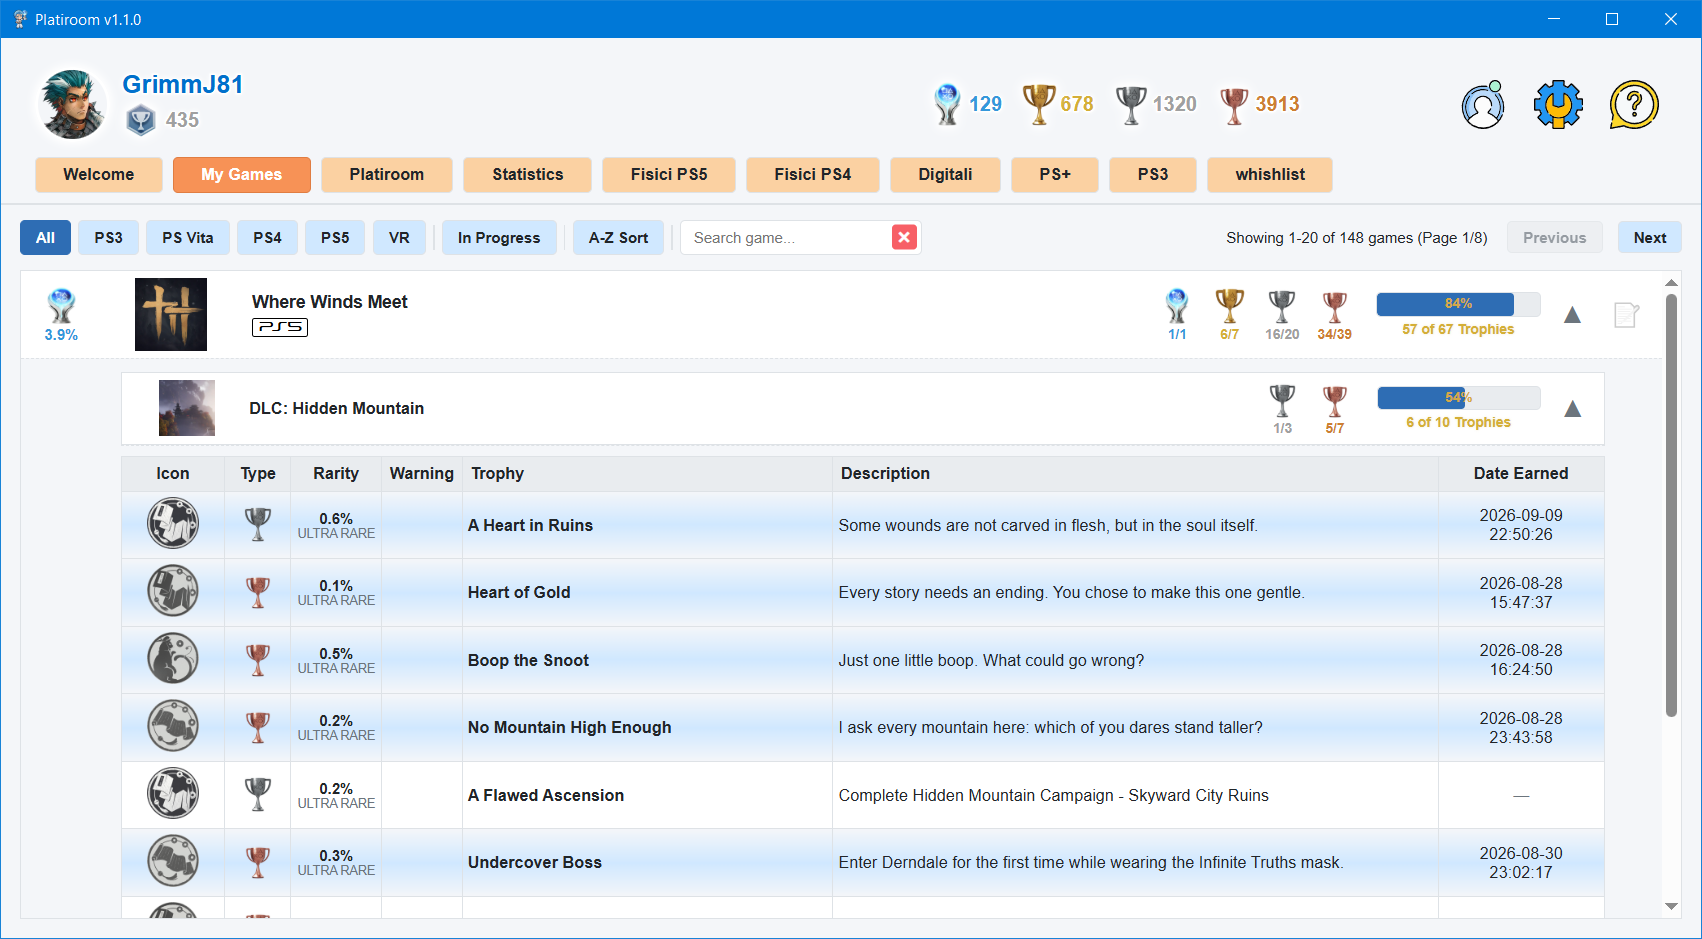
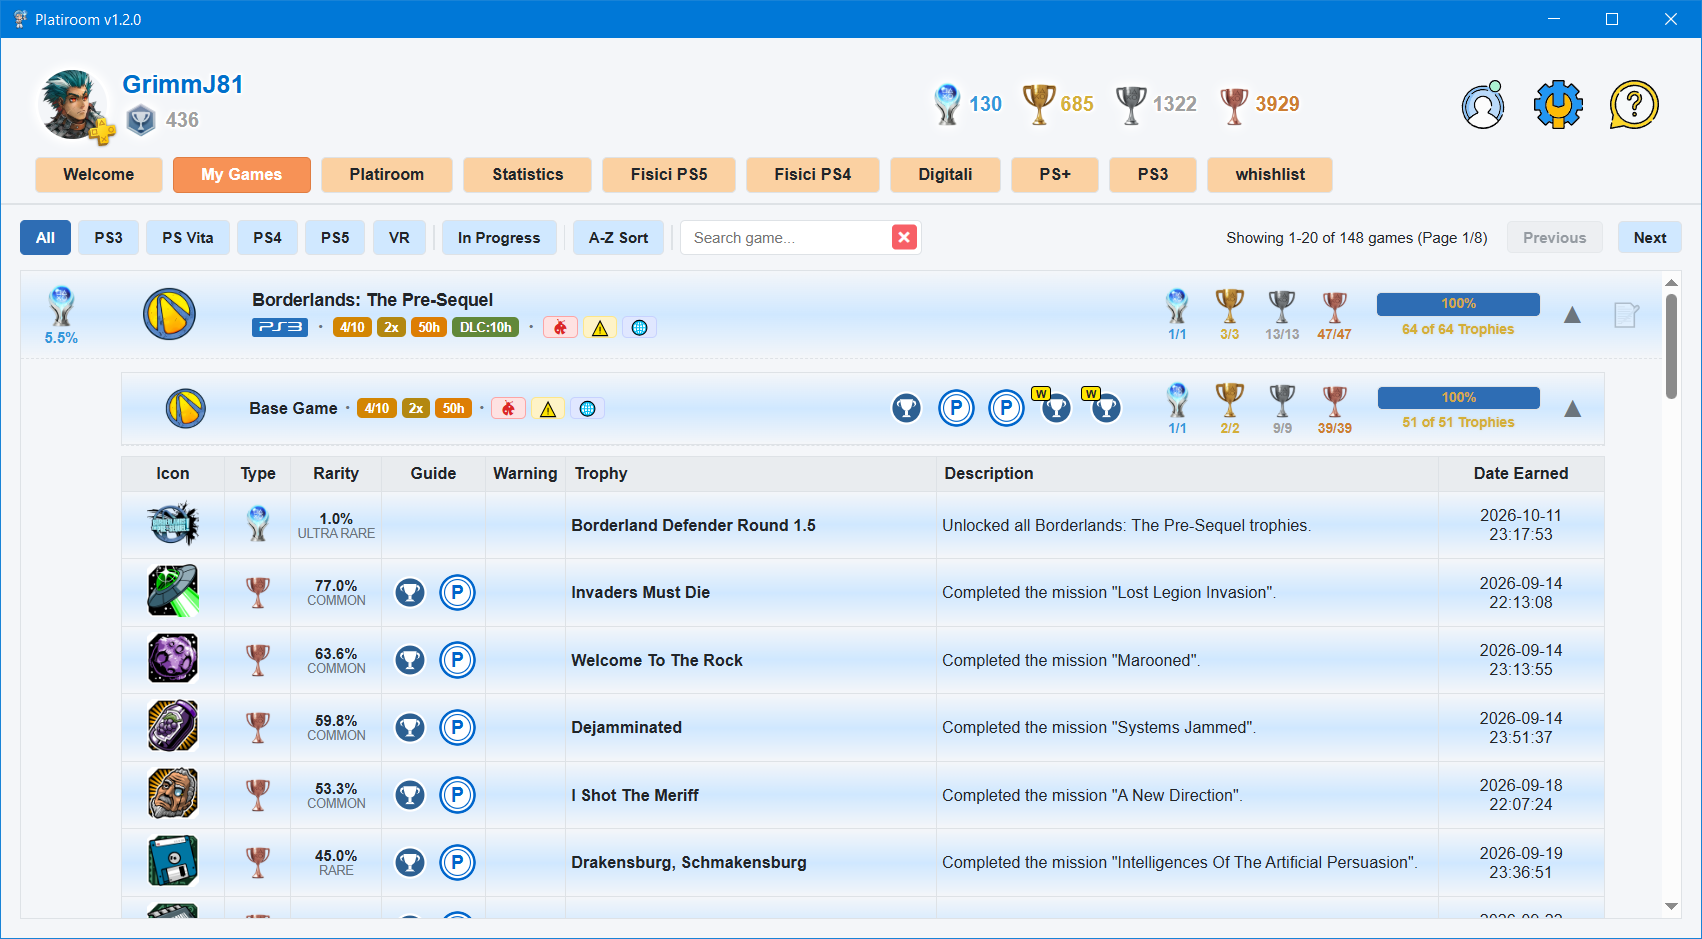
v1.2.0
- added direct link to the bookmark trophy
- added PS+ image
- minor fix

diff --git a/renderer-list.js b/renderer-list.js
@@ -43,6 +43,7 @@ const MYGAMES_COLUMNS_CONFIG = {
   trophyCounts: true,  // Trophy counts per type
   progress: true,      // Progress column (games and DLC)
   trophyData: true,    // Rarity/rate and date earned columns (trophy table)
+  guide: true,        // Guide column of the trophy table
   expand: true,        // Expand arrow
   notes: true          // Note icon (right click to edit)
 };
@@ -56,6 +57,7 @@ const CUSTOM_TABS_COLUMNS_CONFIG = {
   trophyCounts: true,
   progress: false,
   trophyData: false,
+  guide: true,
   expand: true,
   notes: true
 };
@@ -785,6 +787,38 @@ function getGuideBadgeImage(url) {
   return badge ? badge[1] : null;
 }
 
+// Builders of the per-trophy link, one per supported site (icon order: PSNProfiles, PlayStationTrophies)
+const TROPHY_LINK_SOURCES = [
+  {
+    domain: 'psnprofiles.com',
+    needsGameId: true,
+    build: (guideUrl, gameId, trophy) => `https://psnprofiles.com/trophy/${gameId}/${Number(trophy.tId) + 1}`
+  },
+  {
+    domain: 'playstationtrophies.org',
+    needsGameId: false,
+    build: (guideUrl, gameId, trophy) => `${guideUrl.split('#')[0]}#item-${trophy.tId}`
+  }
+];
+
+// Functions trophy -> url for a group (empty array = no guide, so no buttons).
+// Only the first link of each site is used. The game "id" is read from the group data, then from the game entry
+// (DLC share the PSNProfiles page of the base game).
+function getTrophyGuideSources(guideEntry, groupGuideData) {
+  if (!groupGuideData) return [];
+
+  const links = extractGuideLinks(groupGuideData);
+  const gameId = groupGuideData.id ?? guideEntry?.id;
+  const sources = [];
+
+  for (const { domain, needsGameId, build } of TROPHY_LINK_SOURCES) {
+    const link = links.find(l => l.url.toLowerCase().includes(domain));
+    if (!link || (needsGameId && gameId == null)) continue;
+    sources.push((trophy) => build(link.url, gameId, trophy));
+  }
+  return sources;
+}
+
 // ==========================================================================
 // UI COMPONENTS
 // ==========================================================================
@@ -932,7 +966,21 @@ function createRarityCell(trophy) {
   return cell;
 }
 
-function createTrophyRow(trophy, game, config, unobInfo, isEarned) {
+function createEmptyGuideCell() {
+  return createEl('td', 'center-cell guide-cell');
+}
+
+// Platinum stays empty
+function createTrophyGuideCell(trophy, guideSources) {
+  const cell = createEmptyGuideCell();
+  if (String(trophy.tType).trim().toLowerCase() === 'platinum') return cell;
+
+  const links = guideSources.map(makeUrl => ({ type: 'G', url: makeUrl(trophy) }));
+  cell.appendChild(createGuideButtonsComponent(links));
+  return cell;
+}
+
+function createTrophyRow(trophy, game, config, unobInfo, isEarned, buildGuideCell) {
   const row = createEl('tr', isEarned ? 'trophy-row-earned' : '');
   const prefix = getIconPrefix(game.isPS5);
 
@@ -956,6 +1004,9 @@ function createTrophyRow(trophy, game, config, unobInfo, isEarned) {
   // Rarity
   if (config.trophyData) row.appendChild(createRarityCell(trophy));
 
+  // Guide
+  if (config.guide) row.appendChild(buildGuideCell(trophy));
+  
   // Warning (unobtainable)
   const warningCell = createEl('td', 'center-cell');
   warningCell.style.fontSize = '12px';
@@ -980,7 +1031,7 @@ function createTrophyRow(trophy, game, config, unobInfo, isEarned) {
   return row;
 }
 
-function createTrophiesTableComponent(trophies, game, config) {
+function createTrophiesTableComponent(trophies, game, config, guideSources = []) {
   const table = createEl('table', 'trophies-table');
 
   table.innerHTML = `
@@ -989,6 +1040,7 @@ function createTrophiesTableComponent(trophies, game, config) {
         <th style="width: 70px; text-align: center;">Icon</th>
         <th style="width: 40px; text-align: center;">Type</th>
         ${config.trophyData ? '<th style="width: 60px; text-align: center;">Rarity</th>' : ''}
+        ${config.guide ? '<th style="width: 70px; text-align: center;">Guide</th>' : ''}
         <th style="width: 40px; text-align: center;">Warning</th>
         <th style="width: 25%;">Trophy</th>
         <th>Description</th>
@@ -997,13 +1049,18 @@ function createTrophiesTableComponent(trophies, game, config) {
     </thead>
   `;
 
+  // The guide check is done once for the whole group, not once per trophy
+  const buildGuideCell = guideSources.length > 0
+    ? (trophy) => createTrophyGuideCell(trophy, guideSources)
+    : createEmptyGuideCell;
+
   const unobInfo = unobtainableMap[game.npCommunicationId];
   const tbody = document.createElement('tbody');
 
   trophies.forEach(trophy => {
     const isEarned = isTrophyEarned(trophy);
     if (filterInProgressActive && isEarned) return;
-    tbody.appendChild(createTrophyRow(trophy, game, config, unobInfo, isEarned));
+    tbody.appendChild(createTrophyRow(trophy, game, config, unobInfo, isEarned, buildGuideCell));
   });
 
   table.appendChild(tbody);
@@ -1075,14 +1132,14 @@ function createGroupRow(group, game, stats, groupGuideData, config) {
   return row;
 }
 
-function createGroupContainer(group, game, stats, groupGuideData, groupsWrapper, config) {
+function createGroupContainer(group, game, stats, groupGuideData, groupsWrapper, config, guideSources) {
   const container = createEl('div', 'group-container');
   const row = createGroupRow(group, game, stats, groupGuideData, config);
   container.appendChild(row);
 
   const trophiesBox = createEl('div', 'group-trophies-container');
   if (stats.trophies.length > 0) {
-    trophiesBox.appendChild(createTrophiesTableComponent(stats.trophies, game, config));
+    trophiesBox.appendChild(createTrophiesTableComponent(stats.trophies, game, config, guideSources));
   } else {
     const emptyMsg = createEl('div', 'no-trophies-msg', 'No trophies found for this DLC.');
     emptyMsg.style.cssText = 'padding: 12px; color: var(--text-muted); font-size: 12px; font-style: italic; text-align: center;';
@@ -1144,8 +1201,8 @@ function createPlatinumCell(game) {
 
   const img = createEl('img');
   img.src = `img/${getIconPrefix(game.isPS5)}_platinum.png`;
-  img.style.width = '30px';
-  img.style.height = '30px';
+  img.style.height = '35px';
+  img.style.width = 'auto';
   img.style.opacity = earned ? '1' : '0.4';
   cell.appendChild(img);
 
@@ -1243,7 +1300,8 @@ function createExpandableGameContainer(game, tabKey = null) {
       if (filterInProgressActive && stats.progress === 100) return;
 
       const groupGuideData = getGroupGuideData(guideEntry, group);
-      groupsWrapper.appendChild(createGroupContainer(group, game, stats, groupGuideData, groupsWrapper, config));
+      const guideSources = getTrophyGuideSources(guideEntry, groupGuideData);
+      groupsWrapper.appendChild(createGroupContainer(group, game, stats, groupGuideData, groupsWrapper, config, guideSources));
     });
 
     details.appendChild(groupsWrapper);

diff --git a/renderer-stat.js b/renderer-stat.js
@@ -363,7 +363,7 @@ const PS4_COLOR = '#104E9B';
 const PSVITA_COLOR = '#4A89DC';
 const PS5_COLOR = '#ECECE6';            // slightly dirty white
 const PS5_BORDER_COLOR = '#B5B5AD';     // a white border would disappear on the white card
-const MULTIPLATFORM_COLOR = '#8E9195';  // PSN anniversary gray
+const VR_COLOR = '#8E9195';  			// PSN anniversary gray
 
 // Tile of 45 degree stripes alternating two colors, used as a canvas fill.
 // The two colors never overlap, so semi-transparent colors keep their transparency.
@@ -403,8 +403,8 @@ function getPlatformStyle(key, alpha = 1) {
     case 'ps4': return { fill: fillOf(PS4_COLOR), border: PS4_COLOR };
     case 'psvita': return { fill: fillOf(PSVITA_COLOR), border: PSVITA_COLOR };
     case 'ps5': return { fill: fillOf(PS5_COLOR), border: PS5_BORDER_COLOR };
-    case 'vr': return { fill: createStripePattern(fillOf(PS5_COLOR), fillOf(PS4_COLOR)), border: PS4_COLOR };
-    case 'multiplatform': return { fill: fillOf(MULTIPLATFORM_COLOR), border: MULTIPLATFORM_COLOR };
+	case 'vr': return { fill: fillOf(VR_COLOR), border: VR_COLOR };
+	case 'multiplatform': return {fill: createStripePattern(fillOf(PS5_COLOR), fillOf(PSVITA_COLOR)), border: PSVITA_COLOR};
     default: {
       const brand = cssColor('--brand');
       return { fill: fillOf(brand), border: brand };

diff --git a/index.html b/index.html
@@ -2,7 +2,7 @@
 <html lang="en">
 <head>
   <meta charset="UTF-8">
-  <title>Platiroom v1.1.0</title>
+  <title>Platiroom v1.2.0</title>
   <link rel="stylesheet" href="style.css">
 </head>
 <body>
@@ -10,10 +10,13 @@
   <!-- MAIN NAVBAR -->
   <header class="navbar">
     <div class="profile-widget">
-      <img id="avatar" alt="🎮" style="display:none;" onerror="this.style.display='none'; document.getElementById('avatar-placeholder').style.display='inline-block';">
-      <span id="avatar-placeholder" class="emoji-avatar" style="display:none;">🎮</span>
+      <div class="avatar-wrap">
+		<img id="avatar" alt="🎮" style="display:none;" onerror="this.style.display='none'; document.getElementById('avatar-placeholder').style.display='inline-block';">
+		<span id="avatar-placeholder" class="emoji-avatar" style="display:none;">🎮</span>
+		<img id="plus-badge" class="plus-badge" src="img/plus.svg" alt="PlayStation Plus" title="PlayStation Plus">
+	  </div>
     <div class="account-info">
-      <h1 id="account-name">Trophies</h1>
+      <h1 id="account-name">Account</h1>
       <div id="account-level-widget" class="account-level-widget" style="display: none;">
         <img id="tier-icon" class="tier-icon" src="" alt="Tier">
         <span id="account-level" class="account-level"></span>

diff --git a/style.css b/style.css
@@ -224,6 +224,24 @@ button.disabled {
   font-size: 32px;
 }
 
+.avatar-wrap {
+  position: relative;
+  display: flex;
+  align-items: center;
+  justify-content: center;
+}
+
+.plus-badge {
+  display: none;
+  position: absolute;
+  right: -6px;
+  bottom: -4px;
+  width: 24px;
+  height: 24px;
+  filter: drop-shadow(0 0 1px rgba(0, 0, 0, 0.6));
+  pointer-events: none;
+}
+
 .account-info {
   display: flex;
   flex-direction: column;
@@ -1100,6 +1118,13 @@ button.disabled {
   background-color: var(--bg-window);
 }
 
+.guide-cell .group-guide-links {
+  display: flex;
+  flex-wrap: nowrap;
+  justify-content: center;
+  gap: 4px;
+  margin: 0;
+}
 
 /* ==========================================================================
    9. TROPHY TABLE

diff --git a/web/scraper-user.js b/web/scraper-user.js
@@ -525,7 +525,8 @@ export async function runUserScraper({ psn, storage, log = console, delayMs = 30
         accountId: profileData.accountId,
         icon: profileData.avatarUrls?.[0]?.avatarUrl || '',
         level: trophySummary.trophyLevel ?? null,
-        tier: trophySummary.tier ?? null
+        tier: trophySummary.tier ?? null,
+		plus: Boolean(profileData.plus)
       };
       await storage.write(ACCOUNT_FILE, JSON.stringify(accountInfo, null, 2));
       log.log(`🔑 Account: ${profileData.onlineId} | Level: ${trophySummary.trophyLevel ?? 'N/A'} | Tier: ${trophySummary.tier ?? 'N/A'}`);

diff --git a/renderer-global.js b/renderer-global.js
@@ -341,6 +341,7 @@ async function loadSettings() {
 async function loadProfileInfo() {
   const data = await window.api.readLocalJson(DATA_FILES.account);
   if (!data) return;
+  document.getElementById('plus-badge').style.display = data.plus ? 'block' : 'none';
 
   if (data.onlineId) {
     accountNameLbl.textContent = String(data.onlineId).trim();

diff --git a/README.md b/README.md
@@ -63,10 +63,11 @@ Introduction, credits, database update status and the list of upcoming server sh
 - **In Progress**: hides games and DLC that are 100% complete.
 - **A-Z Sort**: switch to alphabetical order (normally last games played are on the top list).
 - **Search**: by title, platform, region or NPWR code.
-- **Expanding**: click a game to see its groups (base game and DLC), then click a group to see the individual trophies.
 - **PSNP+ Badges**: difficulty, number of playthroughs needed, estimated hours, missable ⚠, buggy 🐞, online 🌐 and unobtainable ❌ trophies, and server shutdown ⏳.
 - **Guide buttons**: open the linked guides and walkthroughs in your browser.
 - **Notes**: right-click the 📝 icon to write or edit a note; leave the text empty to remove it. Hover over the icon to read it.
+- **Expanding**: click a game to see its groups (base game and DLC), then click a group to see the individual trophies.
+- **Trophy Guide**: open the linked guides in your browser, at the trophy bookmark.
 
 <img src="docs/screenshots/my-games-exp.png" width="600">
 
@@ -76,6 +77,8 @@ Introduction, credits, database update status and the list of upcoming server sh
 - **Add new game**: search the PSN database (at least 3 characters) and pick a game. Trophy data is downloaded from PSN.
 - The ✕ button on each row removes the game from the list.
 - Tabs show trophy information but not progress, since they are not linked to your account.
+
+<img src="docs/screenshots/custom-tab.png" width="600">
 
 ### Platiroom
 A list of all your platinums (most recent first), with side tables.
